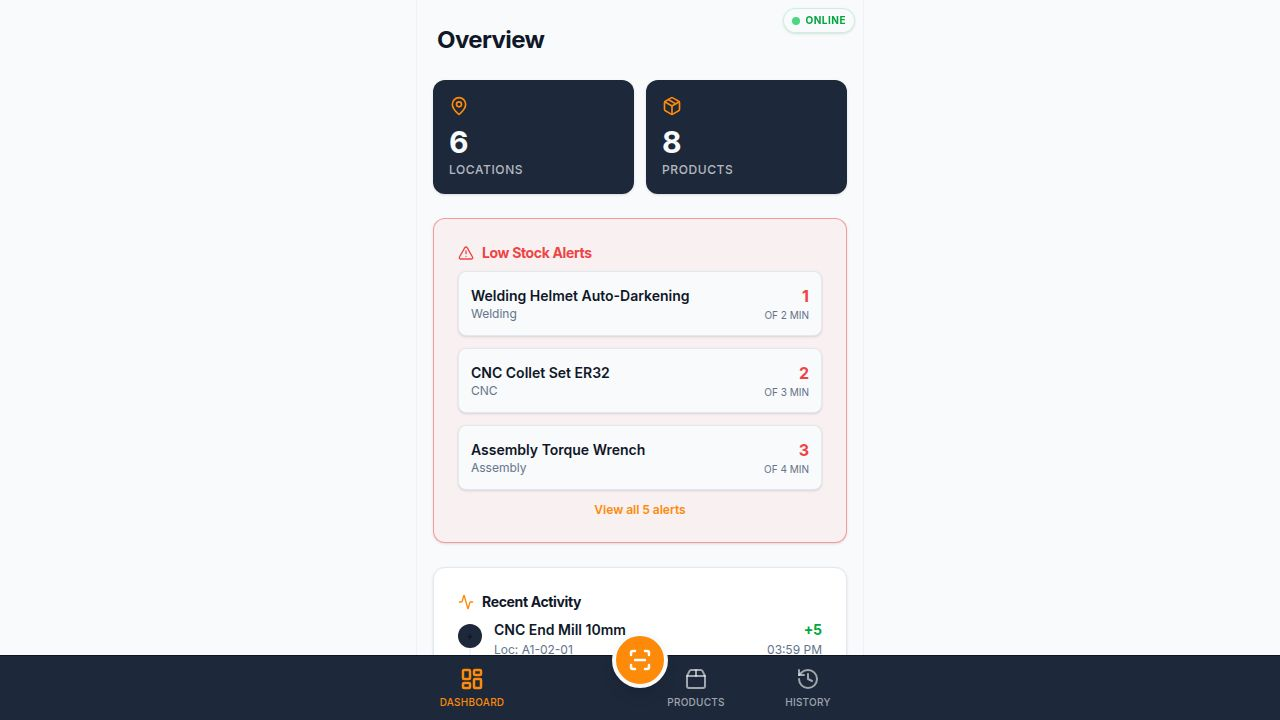
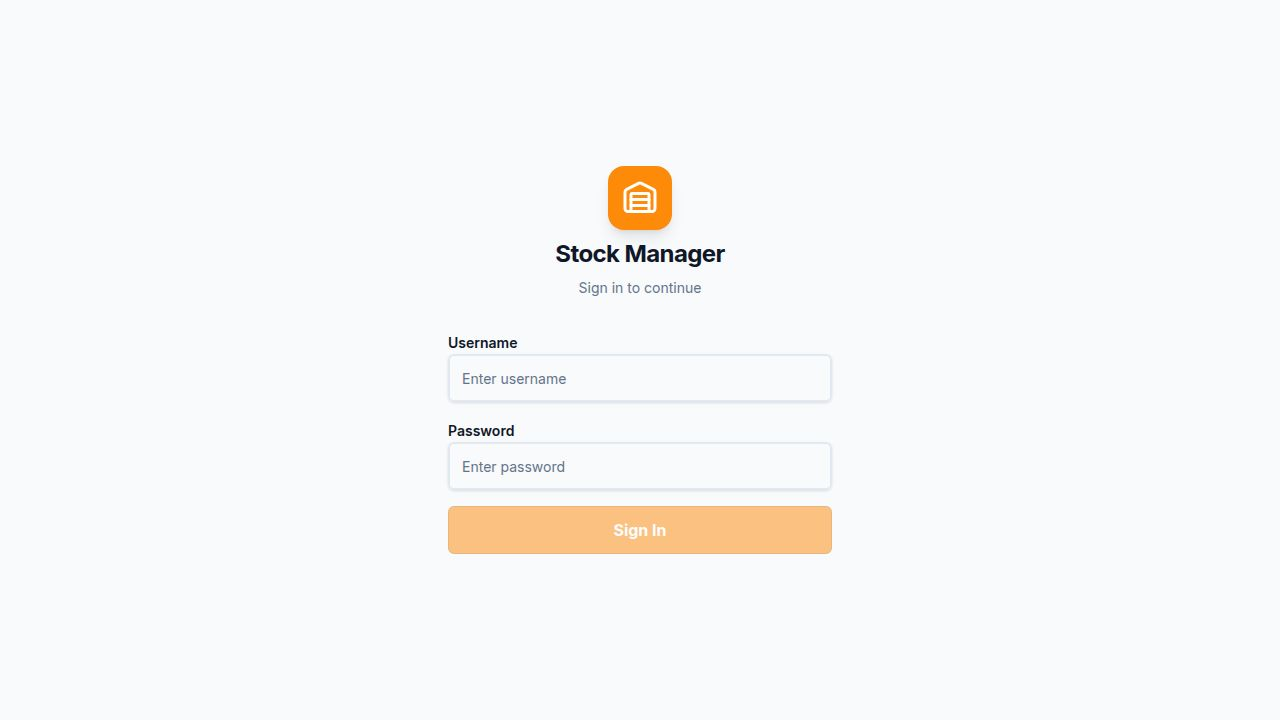
Enhance inventory items with type and restocking details
Update product schema to include itemType, bufferStock, and targetStock. Modify product form and list views to accommodate these new fields and display restocking information.

Replit-Commit-Author: Agent
Replit-Commit-Session-Id: 382b2c4b-aa15-4a99-aff5-fd662866be3c
Replit-Commit-Checkpoint-Type: full_checkpoint
Replit-Commit-Event-Id: bcf67450-b8f0-44ee-8a83-7188ef87a1ca
Replit-Commit-Screenshot-Url: https://storage.googleapis.com/screenshot-production-us-central1/987f20a8-181a-409e-ba6f-c06f1c1cb2df/382b2c4b-aa15-4a99-aff5-fd662866be3c/jMpazto
Replit-Helium-Checkpoint-Created: true

diff --git a/artifacts/warehouse/src/pages/product-form.tsx b/artifacts/warehouse/src/pages/product-form.tsx
@@ -16,7 +16,9 @@ import { useAuth } from "@/contexts/auth";
 const formSchema = z.object({
   name: z.string().min(2, "Name is required"),
   category: z.string().min(2, "Category is required"),
+  itemType: z.enum(["purchase", "production"]).default("purchase"),
   bufferStock: z.coerce.number().min(0, "Must be positive"),
+  targetStock: z.coerce.number().min(0, "Must be positive"),
   alertEmail: z.string().email("Invalid email").optional().or(z.literal("")),
 });
 
@@ -44,7 +46,9 @@ export default function ProductFormPage() {
     defaultValues: {
       name: "",
       category: "",
+      itemType: "purchase",
       bufferStock: 0,
+      targetStock: 0,
       alertEmail: "",
     },
   });
@@ -54,7 +58,9 @@ export default function ProductFormPage() {
       form.reset({
         name: product.name,
         category: product.category,
+        itemType: (product as any).itemType || "purchase",
         bufferStock: product.bufferStock,
+        targetStock: (product as any).targetStock || 0,
         alertEmail: product.alertEmail || "",
       });
     }
@@ -159,14 +165,46 @@ export default function ProductFormPage() {
 
             <FormField
               control={form.control}
+              name="itemType"
+              render={({ field }) => (
+                <FormItem>
+                  <FormLabel className="text-sm font-bold uppercase tracking-wider text-muted-foreground">Item Type</FormLabel>
+                  <FormControl>
+                    <select className="w-full h-14 px-3 border-2 rounded-lg text-lg shadow-sm bg-background" {...field}>
+                      <option value="purchase">Purchase (sourced from suppliers)</option>
+                      <option value="production">Production (produced in-house)</option>
+                    </select>
+                  </FormControl>
+                  <FormMessage />
+                </FormItem>
+              )}
+            />
+
+            <FormField
+              control={form.control}
               name="bufferStock"
               render={({ field }) => (
                 <FormItem>
-                  <FormLabel className="text-sm font-bold uppercase tracking-wider text-muted-foreground">Minimum Stock Level</FormLabel>
+                  <FormLabel className="text-sm font-bold uppercase tracking-wider text-muted-foreground">Minimum Stock Level (Buffer)</FormLabel>
                   <FormControl>
                     <Input type="number" min="0" className="h-14 text-lg border-2 shadow-sm font-mono" {...field} />
                   </FormControl>
-                  <p className="text-xs text-muted-foreground mt-1.5">Alerts when total stock drops below this number</p>
+                  <p className="text-xs text-muted-foreground mt-1.5">Triggers restock alert when stock drops below this level</p>
+                  <FormMessage />
+                </FormItem>
+              )}
+            />
+
+            <FormField
+              control={form.control}
+              name="targetStock"
+              render={({ field }) => (
+                <FormItem>
+                  <FormLabel className="text-sm font-bold uppercase tracking-wider text-muted-foreground">Target Stock Level</FormLabel>
+                  <FormControl>
+                    <Input type="number" min="0" className="h-14 text-lg border-2 shadow-sm font-mono" {...field} />
+                  </FormControl>
+                  <p className="text-xs text-muted-foreground mt-1.5">Desired stock level for restocking calculations</p>
                   <FormMessage />
                 </FormItem>
               )}

diff --git a/artifacts/warehouse/src/pages/products.tsx b/artifacts/warehouse/src/pages/products.tsx
@@ -2,7 +2,7 @@ import { useState } from "react";
 import { Link } from "wouter";
 import { useListProducts, useDeleteProduct } from "@workspace/api-client-react";
 import { useQueryClient } from "@tanstack/react-query";
-import { Plus, Search, AlertTriangle, Edit2, Trash2, MapPin } from "lucide-react";
+import { Plus, Search, AlertTriangle, Edit2, Trash2, MapPin, RefreshCw } from "lucide-react";
 import { Button } from "@/components/ui/button";
 import { Input } from "@/components/ui/input";
 import { Skeleton } from "@/components/ui/skeleton";
@@ -94,9 +94,14 @@ export default function ProductsPage() {
                 <div className="flex justify-between items-start mb-3">
                   <div>
                     <h3 className="font-bold text-lg leading-tight pr-16">{product.name}</h3>
-                    <Badge variant="secondary" className="mt-1 font-medium bg-secondary/10 hover:bg-secondary/10 text-secondary border-none">
-                      {product.category}
-                    </Badge>
+                    <div className="flex gap-1.5 mt-1.5 flex-wrap">
+                      <Badge variant="secondary" className="font-medium bg-secondary/10 hover:bg-secondary/10 text-secondary border-none">
+                        {product.category}
+                      </Badge>
+                      <Badge className={`font-medium text-xs ${(product as any).itemType === "production" ? "bg-orange-100 text-orange-700 hover:bg-orange-100" : "bg-blue-100 text-blue-700 hover:bg-blue-100"}`} variant="outline">
+                        {(product as any).itemType === "production" ? "In-House" : "Purchase"}
+                      </Badge>
+                    </div>
                   </div>
                   <div className="text-right">
                     <p className={`text-2xl font-black leading-none ${product.isLowStock ? 'text-destructive' : ''}`}>
@@ -109,8 +114,25 @@ export default function ProductsPage() {
                 </div>
 
                 <div className="space-y-3 mt-4 pt-4 border-t border-border/50">
-                  <div className="text-xs text-muted-foreground">
-                    Min stock: <span className="font-bold text-foreground">{product.bufferStock}</span>
+                  <div className="grid grid-cols-3 gap-2 text-xs">
+                    <div>
+                      <p className="text-muted-foreground">Buffer</p>
+                      <p className="font-bold text-sm text-foreground">{product.bufferStock}</p>
+                    </div>
+                    <div>
+                      <p className="text-muted-foreground">Target</p>
+                      <p className="font-bold text-sm text-foreground">{(product as any).targetStock || 0}</p>
+                    </div>
+                    {product.totalStock < product.bufferStock && (
+                      <div className="bg-red-50 rounded p-2 col-span-3">
+                        <div className="flex items-center gap-1 text-red-700">
+                          <RefreshCw className="h-3.5 w-3.5" />
+                          <span className="font-bold text-xs">
+                            Restock: +{((product as any).targetStock || 0) - product.totalStock}
+                          </span>
+                        </div>
+                      </div>
+                    )}
                   </div>
                   
                   <div className="flex gap-2">

diff --git a/lib/db/src/schema/products.ts b/lib/db/src/schema/products.ts
@@ -1,13 +1,17 @@
-import { pgTable, text, timestamp, integer, serial } from "drizzle-orm/pg-core";
+import { pgTable, text, timestamp, integer, serial, pgEnum } from "drizzle-orm/pg-core";
 import { createInsertSchema } from "drizzle-zod";
 import { z } from "zod/v4";
 import { companiesTable } from "./companies";
+
+export const itemTypeEnum = pgEnum("item_type", ["purchase", "production"]);
 
 export const productsTable = pgTable("products", {
   id: serial("id").primaryKey(),
   name: text("name").notNull(),
   category: text("category").notNull(),
+  itemType: itemTypeEnum("item_type").notNull().default("purchase"),
   bufferStock: integer("buffer_stock").notNull().default(0),
+  targetStock: integer("target_stock").notNull().default(0),
   alertEmail: text("alert_email"),
   companyId: integer("company_id").references(() => companiesTable.id, { onDelete: "cascade" }),
   createdAt: timestamp("created_at").defaultNow().notNull(),